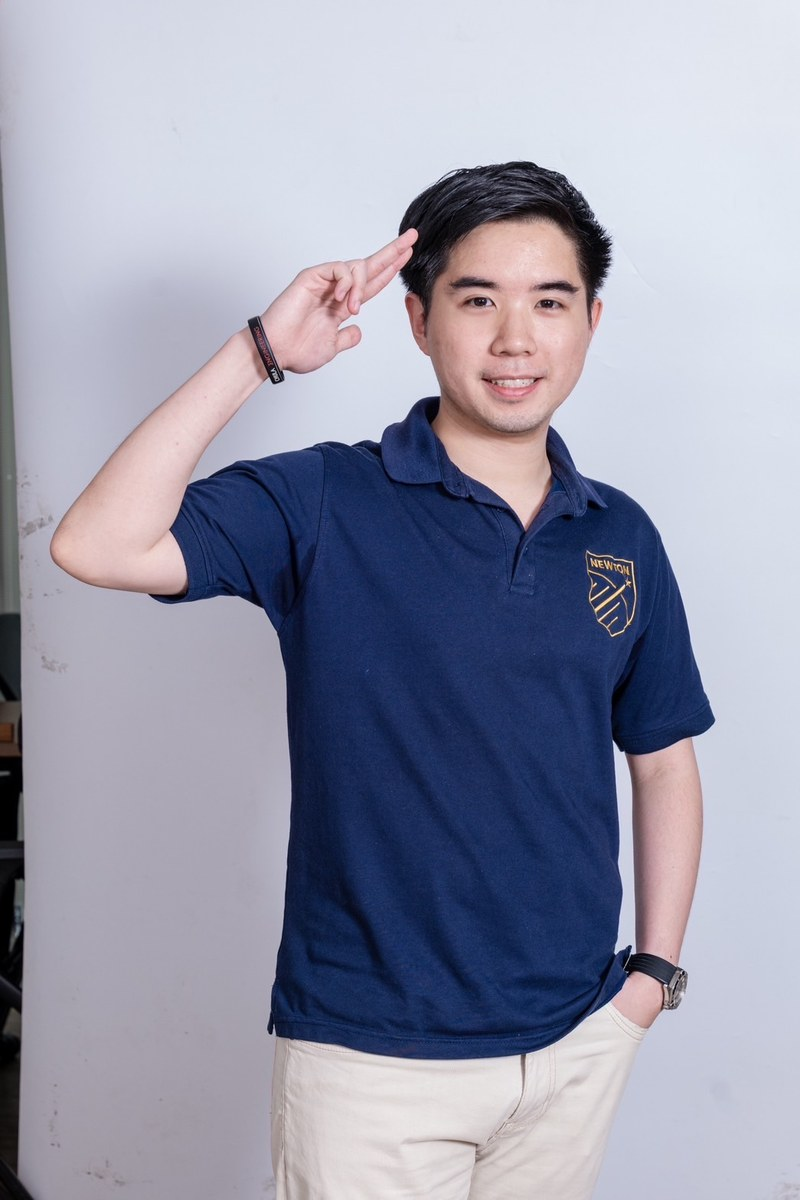
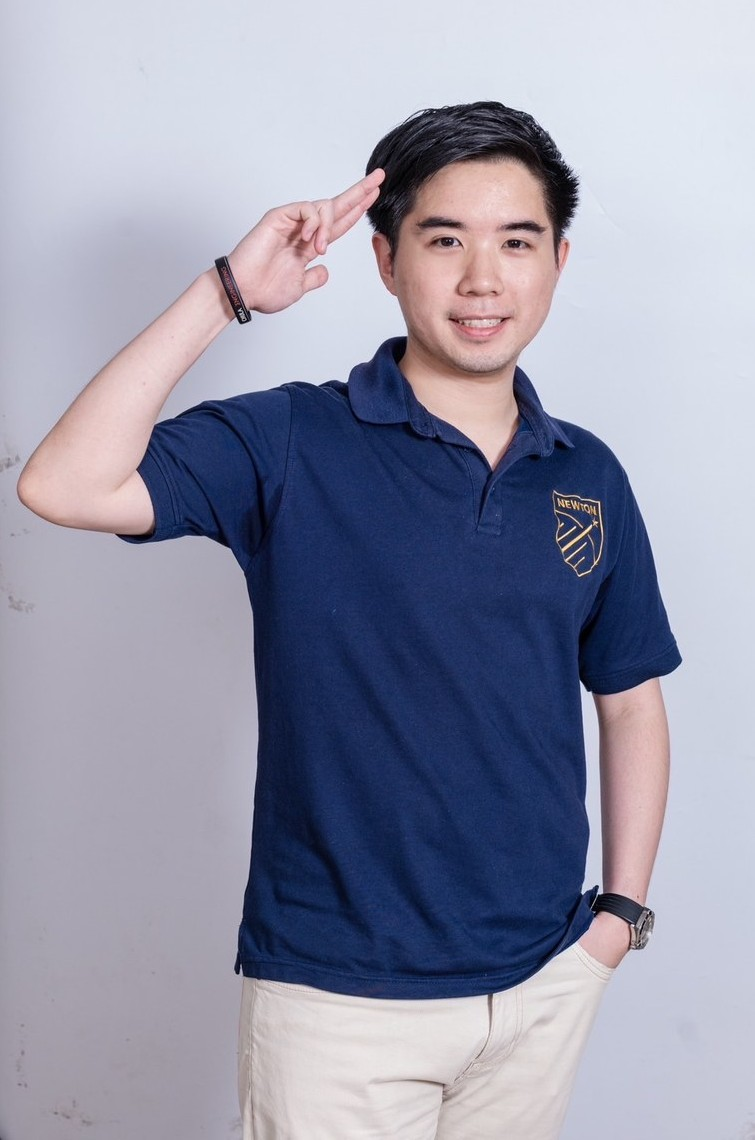
UpdateMay2026

diff --git a/styles.css b/styles.css
@@ -4081,22 +4081,60 @@ nav.scrolled {
 }
 
 /* ====================================
-   HERO SECTION v7 (Grid Layout)
+   HERO SECTION v7 (Center Balanced Layout)
    ==================================== */
 
-/* 1. ตัวคุม Hero ทั้งหมด (สำคัญมาก: ล็อกความกว้างคอลัมน์แล้วดึงเข้าหากันตรงกลาง) */
 .hero-v7 {
   min-height: 100vh;
   padding: 8rem 2.5rem 4rem;
-  display: grid;
-  /* ล็อกฝั่งซ้ายไม่เกิน 580px ฝั่งขวาไม่เกิน 450px และไม่ปล่อยให้ยืดออกไปขอบจอ */
-  grid-template-columns: minmax(auto, 580px) minmax(auto, 450px);
-  justify-content: center; /* ดึงทั้ง 2 คอลัมน์มารวมกันตรงกลางจอ */
-  gap: 2.5rem; /* ระยะห่างระหว่างรูปและข้อความ (ปรับลดได้อีกถ้าอยากให้ชิดกว่านี้ เช่น 1.5rem) */
+  
+  /* 1. เปลี่ยนมาใช้ Flexbox เพื่อให้ควบคุมการจัดกลุ่มตรงกลางได้เด็ดขาดกว่า Grid ในกรณีนี้ */
+  display: flex;
+  flex-direction: row;
+  justify-content: center; /* ดึงบล็อกซ้ายและขวามากระจุกรวมกันตรงกลางหน้าจอ */
   align-items: center;
-  position: relative;
+  
+  /* 2. กำหนดระยะห่างระหว่างข้อความกับรูปภาพ (ลดเหลือ 3.5rem เพื่อให้ชิดกันมากขึ้น) */
+  gap: 3.5rem; 
+  
   max-width: 1400px;
   margin: 0 auto;
+  position: relative;
+}
+
+/* ล็อกความกว้างของบล็อกฝั่งซ้าย (ข้อความ) ไม่ให้ยืดออกไปหาขอบจอ */
+.hero-v7-left {
+  position: relative;
+  z-index: 2;
+  width: 100%;
+  max-width: 580px; /* ล็อกความกว้างไว้เท่านี้ */
+}
+
+/* ล็อกความกว้างของบล็อกฝั่งขวา (รูปภาพ) */
+.hero-v7-right {
+  position: relative;
+  display: flex;
+  align-items: center;
+  justify-content: center;
+  z-index: 2;
+  width: 100%;
+  max-width: 450px; /* ล็อกความกว้างรูปภาพ */
+}
+
+/* 3. ตรวจสอบให้แน่ใจว่ามีส่วน Responsive สำหรับหน้าจอเล็ก/มือถือ (ห้ามลืมใส่ส่วนนี้) */
+@media (max-width: 1024px) {
+  .hero-v7 { 
+    flex-direction: column; /* เปลี่ยนเป็นเรียงบนลงล่างในจอเล็ก */
+    gap: 2.5rem; 
+    padding: 7rem 1.5rem 3rem; 
+  }
+  .hero-v7-left, .hero-v7-right {
+    max-width: 100%;
+  }
+  .hero-v7-right {
+    order: -1; /* เอารูปขึ้นก่อนข้อความในมือถือ */
+    max-width: 380px; /* ย่อรูปลงนิดหน่อยไม่ให้ล้นมือถือ */
+  }
 }
 
 /* ปรับขนาดฟอนต์ของ h1 ลงเล็กน้อย ป้องกันการล้นจอในบางอุปกรณ์ */
